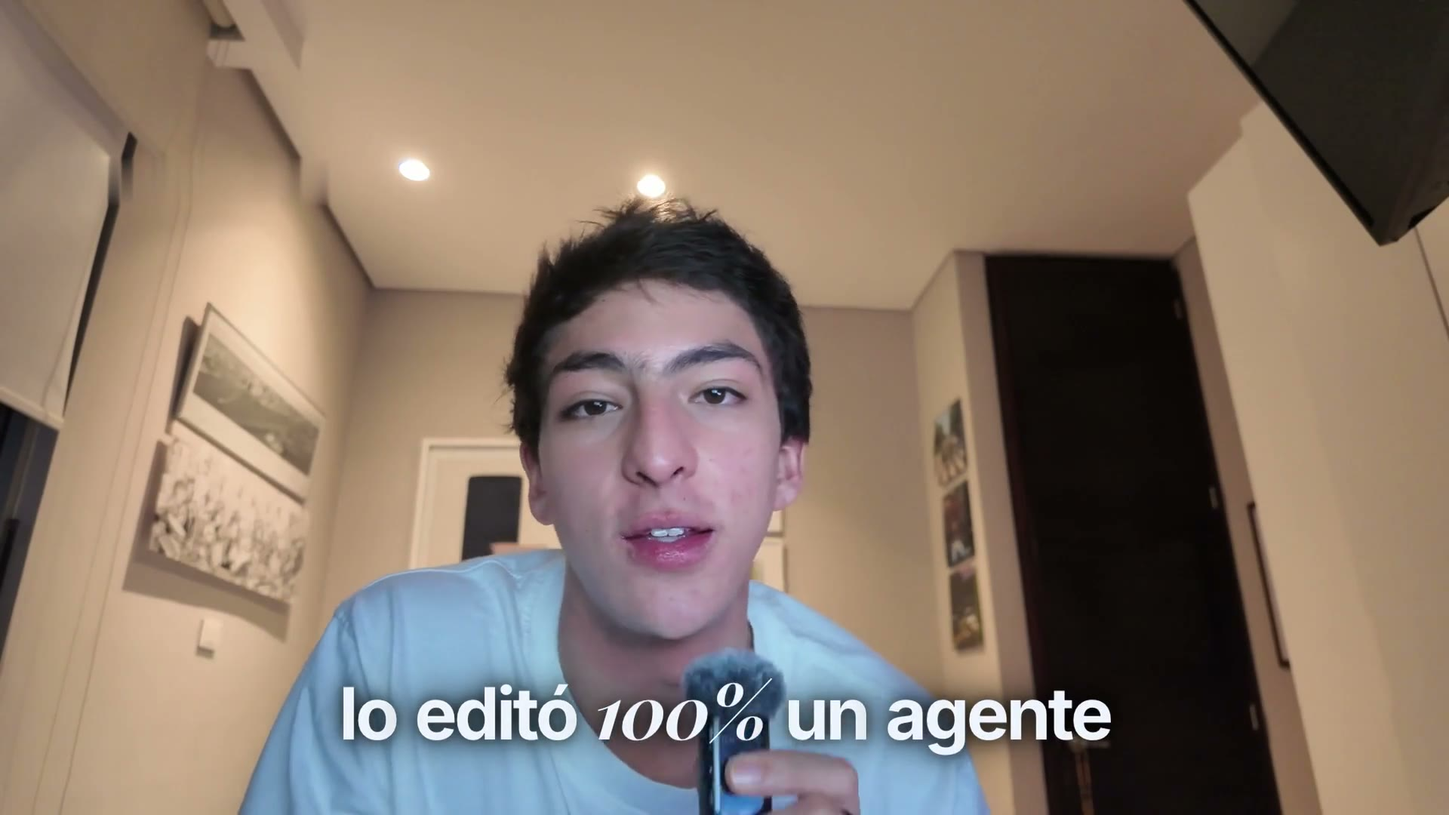
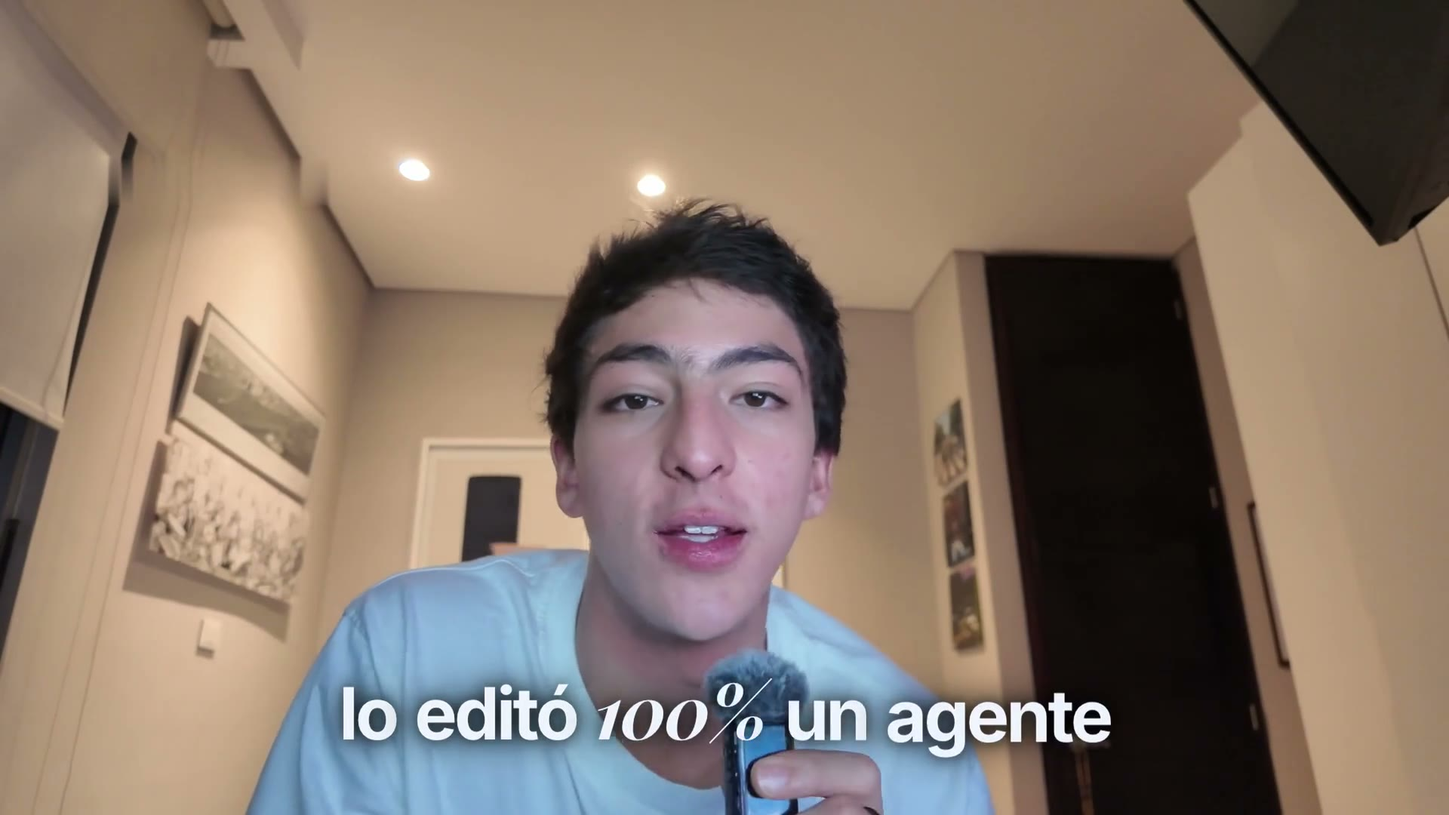
Name the tested Mac precisely and use an eyes-open VSL poster
"Probada de principio a fin en Mac con Apple Silicon, Windows y Linux"
instead of a bare "Mac", in the formats note and the computer FAQ. The VSL
poster is now the frame at 2.2 s (eyes open, looking at the camera).

Changed region(s): [[0.3438, 0.2444, 0.7812, 1.0], [0.1562, 0.7028, 0.2812, 1.0], [0.5938, 0.7944, 0.625, 0.825]]

diff --git a/index.html b/index.html
@@ -27,4 +27,4 @@ body.has-sticky .vek-chat{bottom:78px}
 @media (max-width:640px){.sticky-buy{font-size:12px;gap:10px;justify-content:space-between}.sticky-buy span{flex:1}body.has-sticky .vek-chat{bottom:74px}}
 </style></head><body class="has-sticky">
 <header class="nav wrap"><a class="brand" href="#">◧ <b>VIDEO EDITOR</b><span>ESTUDIO CON IA</span></a><a class="nav-link" href="#incluye">Qué recibes</a><a class="nav-link" href="#preguntas">Preguntas</a><a class="button small" href="#oferta">Quiero mi editor <span>↓</span></a></header>
-<main><section class="hero wrap"><p class="eyebrow"><i></i> PARA QUIENES GRABAN A CÁMARA EN ESPAÑOL</p><h1>Grabar te toma un rato.<br><em>Editar te roba la noche.</em></h1><p class="lead">Video Editor Kit es tu editor de video en español que aprende cómo editas tú. Trabaja en tu computador, en Claude Code o Codex. Le pides «edita este video»: el kit quita pausas y tomas repetidas, y subtitula sin taparte la cara. Lo entrega para Reels, TikTok, Shorts o YouTube. Tú revisas y apruebas.</p><video class="vsl" controls playsinline preload="metadata" poster="assets/vsl-poster.jpg" src="assets/vsl.mp4" style="width:100%;height:auto;border-radius:18px;background:#0E1210"></video><div class="hero-cta"><a class="button" href="#oferta">Quiero mi editor por US$97 <span>↓</span></a><p class="micro"><span>Solo 30 cupos a este precio</span><span>Pago único</span><span>Garantía de 15 días</span><span>Descarga inmediata</span></p></div></section><section class="tension wrap"><p class="eyebrow">LO QUE PASA DESPUÉS DE GRABAR</p><div class="split"><h2>Tu idea estaba lista el lunes.<br><span class="muted">El video sale el viernes. Si sale.</span></h2><div><p>Grabaste en un rato. Lo demás se llevó la noche: escuchar cada pausa, cortar las tomas que repetiste, escribir los subtítulos, moverlos para que no te tapen la cara, exportar… y descubrir que el audio quedó bajito. Otra vez.</p><p>Cuando terminas, ya no quedan ganas de grabar el siguiente. Publicas menos, publicas tarde o publicas algo que no te convence. Y cada semana así es una semana en la que tu audiencia ve los videos de otro.</p><p>Y las soluciones de siempre también te cobran. Una app de edición se renueva cada año. Un editor te cobra cada video y entrega a su ritmo, no al tuyo.</p><ul class="pains"><li>Cortar pausas y tomas repetidas, una por una.</li><li>Subtítulos que te tapan la cara o quedan debajo de los botones de Instagram.</li><li>Nombres y marcas mal escritos que corriges a mano, video tras video.</li><li>Clips del iPhone que salen con colores raros o de lado.</li><li>Pagar una app de edición cada año, publiques mucho o poco.</li></ul><a class="text-link" href="#estilo">Así lo resuelve <span>↓</span></a></div></div></section><section class="method" id="estilo"><div class="wrap"><p class="eyebrow">CÓMO APRENDE TU ESTILO</p><h2>No le explicas tu estilo.<br><em>Se lo muestras.</em></h2><div class="steps"><article><span class="num">01</span><h3>Escribe «empezar»</h3><p>Abres la carpeta del kit en Claude Code o Codex y escribes «empezar». El kit revisa tu computador e instala lo que falta. No necesitas saber programar.</p></article><article><span class="num">02</span><h3>Dale de 1 a 3 videos que te gusten</h3><p>Tuyos o con el ritmo que buscas. Los mide en tu computador: cortes por minuto, pausas, ritmo al hablar y estilo de subtítulos. Te muestra en español lo que aprendió, en un resumen que puedes leer y cambiar.</p></article><article><span class="num">03</span><h3>Pide «edita este video»</h3><p>Aplica tu perfil de estilo y te muestra el resultado antes de exportar. ¿Corriges algo? Te pregunta «¿siempre así?» y lo guarda en tu perfil para los siguientes videos.</p></article></div><p class="fine">Un perfil por cada creador o cliente. Y tu material se edita en tu computador: no tiene que subirse a un servicio de edición.</p></div></section><section class="cost wrap" id="formatos"><p class="eyebrow">QUÉ EDITA</p><h2>Del reel al video de YouTube, con el mismo editor.</h2><div class="cost-grid"><article class="us"><span>VERTICAL 9:16</span><b style="font-size:24px">Reels, TikTok y Shorts</b><p>Sin pausas ni tomas repetidas, con gráficos para formato corto y subtítulos en español que no te tapan la cara, dentro de la zona segura de Instagram. Una versión para cada plataforma, con el volumen parejo (−14 LUFS).</p></article><article class="us"><span>HORIZONTAL 16:9</span><b style="font-size:24px">Videos de YouTube</b><p>Quita pausas, tiempos muertos y tomas repetidas, nivela el audio y te entrega la versión para YouTube con el MP4 final verificado.</p></article><article class="us"><span>DE LARGO A CLIPS</span><b style="font-size:24px">Un video largo, varios clips</b><p>Convierte un video largo en varios clips verticales con subtítulos. Una sola grabación, varias publicaciones.</p></article></div><p class="fine" style="margin-top:16px">El formato se detecta solo: vertical → corto; horizontal → YouTube. Edición completa de verticales y de YouTube probada de principio a fin en Mac, Windows y Linux. No necesitas ninguna app de edición; si usas Premiere Pro, DaVinci Resolve, CapCut o Final Cut Pro, el kit incluye rutas para terminar ahí.</p></section><section class="why wrap" id="por-que"><p class="eyebrow">¿POR QUÉ NO HERRAMIENTAS GRATIS, UNA APP O UN EDITOR?</p><div class="split"><div><h2>Lo gratis te cobra en tiempo.<br>El kit llega armado y en español.</h2><p class="muted" style="margin-top:22px">Hay complementos gratis para editar con Claude Code (se llaman skills), casi todos en inglés, y el flujo lo armas tú, pieza por pieza. Las apps te cobran cada año. Un editor, cada video. Video Editor Kit llega armado, en español, aprende tu estilo y se paga una vez.</p></div><ul><li>Aprende de 1 a 3 videos que te gusten y guarda en tu perfil de estilo cada corrección que confirmas.</li><li>Transcribe en español en tu computador: sin claves de API, sin costo por minuto y sin subir tus videos a un servicio de edición.</li><li>Quita pausas, tiempos muertos y tomas repetidas: si repites una frase, se queda con la última toma.</li><li>Pone subtítulos que no tapan tu cara, dentro de la zona segura de Instagram. Y corrige los nombres que el transcriptor oye mal con una lista que tú amplías («Clot» → Claude).</li><li>Te marca cuándo miras fuera de cámara, por ejemplo al leer un guion, para que tú decidas.</li><li>Convierte los clips HDR del iPhone a colores normales, lee la rotación y entrega una versión por plataforma con el volumen parejo.</li><li>Nunca toca tu original. Exporta solo cuando apruebas y verifica el MP4 final: duración, audio y que el archivo no esté dañado.</li><li>Llega armado. Si lo armas tú con herramientas gratis, un detalle técnico puede dejar tu video sin subtítulos (nos pasó con el ffmpeg de Homebrew). Aquí ya viene resuelto.</li></ul></div></section><section class="cost wrap"><p class="eyebrow">LO QUE TE CUESTA EDITAR HOY</p><h2>Unos cobran cada año. Otros, cada video. Este, una vez.</h2><div class="cost-grid"><article><span>SUSCRIPCIÓN</span><b>$180–290<small style="font-size:13px">&nbsp;/año</small></b><p>Submagic Pro (US$276), Descript Creator (US$288) o CapCut Pro (US$180), en plan anual. Y al año siguiente, otra vez.</p></article><article><span>EDITOR HUMANO</span><b>$40–400<small style="font-size:13px">&nbsp;/mes</small></b><p>8 reels al mes en Latinoamérica: desde US$5 por reel en plataformas de trabajo independiente hasta US$50 o más si el editor tiene experiencia. Todos los meses. Y publicas cuando te entregan, no cuando quieres.</p></article><article class="us"><span>VIDEO EDITOR KIT</span><b>$97<small style="font-size:13px">&nbsp;una vez</small></b><p>Un solo pago por el kit: sin mensualidad ni cobro por video. Lo usas en tus videos y en los de tus clientes. Aparte, tu plan de Claude (desde unos US$20/mes) o de ChatGPT, que quizá ya pagas.</p></article></div><p class="fine" style="margin-top:16px">Precios públicos consultados el 25/09/2026, en USD y redondeados: planes anuales de cada app y tarifas de editores en plataformas de trabajo independiente de Latinoamérica.</p></section><section class="included wrap" id="incluye"><p class="eyebrow">LO QUE RECIBES</p><h2>Un editor completo.<br><em>Y todo para usarlo desde hoy.</em></h2><div class="deliverable"><figure class="product-visual"><img src="assets/higgsfield-kit.jpg" alt="Las piezas de Video Editor Kit" width="1800" height="1005" loading="lazy"><figcaption>Recibes archivos digitales: descarga inmediata desde tu recibo.</figcaption></figure><div class="stack"><article><span>01 · EL EDITOR</span><h3>El agente editor</h3><p>Todo el flujo de edición, ya armado. Transcribe en español, corta, subtitula y añade gráficos a los formatos cortos. Nivela el audio y exporta una versión por plataforma, con el MP4 verificado.</p></article><article><span>02 · TU ESTILO</span><h3>Perfiles de estilo y plantilla de marca</h3><p>Un perfil por creador o cliente, y una plantilla que llenas una vez con tus colores, tus fuentes y tu voz.</p></article><article><span>03 · GUÍA</span><h3>Guía visual de 10 lecciones</h3><p>Paso a paso y en español, con instrucciones para copiar. Te lleva del ZIP a tu primer video exportado.</p></article><article><span>04 · AYUDA</span><h3>Asistente de ayuda y soporte por correo</h3><p>El asistente responde con la documentación del kit. Y si algo se traba, nos escribes.</p></article><article><span>05 · EXTRAS</span><h3>165 iconos animados</h3><p>Con fondo transparente, para tus videos. Y además, instrucciones para Claude Code y Codex.</p></article><article><span>BONO FUNDADOR</span><h3>Llamada 1 a 1 de 30 minutos con Alejandro</h3><p>Solo para los primeros 30: aprende conmigo a crear agentes de IA como este. La reservas con el enlace que llega en tu correo de compra.</p></article></div></div></section><section class="fit wrap"><div><p class="eyebrow">¿ES PARA TI?</p><h2>Esto no es para todos.<br><em>Es para quien ya se cansó de editar.</em></h2></div><div><h3>Es para ti si…</h3><ul class="checks"><li>Grabas a cámara en español: creas contenido, enseñas, asesoras o vendes con video.</li><li>Hoy editas de noche, le pagas a un editor o pagas una app cada año.</li><li>Quieres que tus videos salgan con tu ritmo y tus subtítulos, sin explicarlo cada vez.</li><li>Editas para clientes y quieres un perfil de estilo para cada uno.</li></ul><h3>No es para ti si…</h3><ul class="checks no"><li>Buscas una app de arrastrar y soltar: aquí le pides la edición en español a tu IA.</li><li>No quieres pagar un plan de Claude o ChatGPT: es necesario para usar el kit.</li><li>Quieres publicar sin mirar: aquí tú revisas y apruebas cada video.</li></ul><div class="requirements"><h3>Lo que necesitas</h3><p>Un computador Mac, Windows o Linux, unos 10 GB libres y un plan de pago de Claude para usar Claude Code (desde unos US$20/mes) o de ChatGPT para Codex. Nada de programar: le hablas en español.</p></div></div></section><section class="offer-section" id="oferta"><div class="wrap offer-grid"><div><p class="eyebrow">PRECIO FUNDADOR · SOLO 30 CUPOS</p><h2>Los primeros 30 pagan US$97.<br><em>Desde el cupo 31, US$137.</em></h2><p class="offer-copy urgent">¿Por qué más barato? Porque si eres de los primeros 30, te pido algo a cambio: tu opinión honesta después de tu primera edición. Gumroad cierra este precio en la venta 30 y yo actualizo el contador cada día con las ventas reales. Si llegas después, pagas US$40 más y te quedas sin la llamada 1 a 1.</p><p class="offer-copy bono">Bono fundador: una llamada 1 a 1 de 30 minutos conmigo, Alejandro, para aprender a crear agentes de IA como este editor. La reservas con el enlace que llega en tu correo de compra. El soporte del kit va por correo; esta llamada es para que aprendas a crear los tuyos. Se acaba con el último cupo.</p></div><div class="price-card"><span class="founder">QUEDAN <b data-cupos>30</b> DE 30 CUPOS · ACTUALIZADO EL <span data-cupos-fecha>01/10</span></span><span class="eyebrow" style="display:block;margin-top:14px">VIDEO EDITOR KIT</span><div class="price">$97<span>USD · luego $137</span></div><p>Pago único · sin mensualidad del kit</p><ul class="checks"><li>Tu editor de video en español, en tu computador</li><li>Aprende tu estilo: un perfil por creador o cliente</li><li>Reels, TikTok, Shorts y YouTube</li><li>Guía visual de 10 lecciones en español</li><li>Asistente de ayuda y soporte por correo</li><li>Plantilla de marca y 165 iconos animados</li><li>Bono fundador: llamada 1 a 1 con Alejandro (solo los primeros 30)</li><li>Garantía de primera edición de 15 días</li></ul><a class="button full" href="https://gumroad.com/checkout?product=bkxlfg&amp;quantity=1">Quiero mi editor por US$97 <span>↗</span></a><div class="guarantee"><b>Si no exportas tu primer video, te devolvemos el dinero.</b> Garantía de primera edición de 15 días: si sigues la guía con un clip tuyo de 20–60 s y no logras exportar tu primer video, escríbenos; te ayudamos y, si no lo resolvemos, te devolvemos el dinero.</div><p class="fine">Pago procesado por Gumroad. Descargas el kit desde tu recibo, justo después de pagar.</p></div></div></section><section class="faq wrap" id="preguntas"><p class="eyebrow">ANTES DE COMPRAR</p><h2>Lo que te estás preguntando, respondido.</h2><details><summary>¿Tengo que saber programar?</summary><p>No. Abres la carpeta del kit en Claude Code o Codex, escribes «empezar» y desde ahí le hablas en español, como le hablarías a tu editor: «edita este video». El kit revisa tu computador e instala lo que falte, y la guía visual te lleva paso a paso con instrucciones para copiar y pegar.</p></details><details><summary>¿De verdad aprende mi estilo?</summary><p>Sí. No le describes tu estilo: le das de 1 a 3 videos que te gusten y mide sus cortes por minuto, sus pausas, el ritmo al hablar y los subtítulos. Te lo resume en español para que lo leas y lo ajustes. Y cada vez que corriges algo y confirmas «siempre así», lo recuerda.</p></details><details><summary>¿Me sirve con mi computador?</summary><p>La edición completa de videos verticales y de YouTube está probada de principio a fin en Mac, Windows y Linux. Necesitas unos 10 GB libres. Al escribir «empezar», el kit revisa tu equipo e instala lo que falte. ¿Grabas con iPhone? El kit convierte el HDR a colores normales y lee la rotación. Y si no logras exportar tu primer video, te cubre la garantía de primera edición de 15 días.</p></details><details><summary>¿Lo uso con Claude o con ChatGPT?</summary><p>Con Claude, lo usas en Claude Code (plan de pago de Claude, desde unos US$20/mes). Con ChatGPT, en Codex (plan de pago de ChatGPT). No es el chat del navegador: abres la carpeta del kit en tu computador y le pides la edición en español. Codex: adaptación incluida; la prueba completa está en curso.</p></details><details><summary>¿Qué tengo que pagar aparte?</summary><p>Solo tu plan de Claude (desde unos US$20/mes) o de ChatGPT, si no lo tienes ya. La transcripción corre en tu computador con WhisperX: sin claves de API ni cobro por minuto. No necesitas ninguna app de edición; si ya usas Premiere Pro, DaVinci Resolve, CapCut o Final Cut Pro, el kit incluye rutas para terminar ahí.</p></details><details><summary>¿Vale lo que cuesta?</summary><p>Haz la cuenta. Un año de Submagic Pro, Descript Creator o CapCut Pro cuesta entre US$180 y US$290. Un editor en Latinoamérica cobra de US$5 a US$50 o más por reel, todos los meses. El kit se paga una vez y lo usas en todos tus videos, sin cobro por video ni por minuto; solo necesitas tu plan de Claude o ChatGPT, que quizá ya pagas. Y cada corrección que confirmas queda guardada en tu perfil.</p></details><details><summary>¿Por qué no herramientas gratis, una app o un editor?</summary><p>Los complementos gratis (skills) existen, casi todos en inglés, y el flujo lo armas tú: instalar, conectar, probar y arreglar lo que falla. Una app se paga cada año y un editor cobra cada video. El kit llega armado, en español, trabaja en tu computador y aprende cómo editas tú, con un solo pago.</p></details><details><summary>¿Cuánto tarda en estar listo?</summary><p>Lo descargas apenas pagas. Instalarlo son 3 pasos: descargas el ZIP desde tu recibo, lo descomprimes y abres la carpeta video-editor en Claude Code o Codex para escribir «empezar». El kit revisa tu computador e instala lo que falte. La primera edición descarga una sola vez unos 4,3 GB de modelos; las siguientes reutilizan lo descargado.</p></details><details><summary>¿Puedo usarlo con videos de clientes?</summary><p>Sí. Puedes editar material tuyo o de tus clientes y guardar un perfil de estilo para cada uno. Así cada cliente conserva su ritmo y sus subtítulos sin que tengas que explicarlo de nuevo en cada video.</p></details><details><summary>¿Y si no me funciona?</summary><p>Te cubre la garantía de primera edición de 15 días: si sigues la guía con un clip tuyo de 20–60 s y no logras exportar tu primer video, escríbenos; te ayudamos y, si no lo resolvemos, te devolvemos el dinero. Además tienes el asistente de ayuda y soporte por correo.</p></details></section><section class="last wrap"><img class="closing-art" src="assets/higgsfield-detail.jpg" alt="" width="1800" height="1005" loading="lazy"><p class="eyebrow">PIÉNSALO ASÍ</p><h2>Tu próximo video puede salir<br><em>sin robarte otra noche.</em></h2><p class="lead">Imagina la próxima semana: grabas, escribes «edita este video», revisas y publicas. Sin abrir una app de edición. Sin esperar a nadie. O imagina que todo sigue igual: otra noche cortando pausas, otra renovación de tu app de edición, otro video que sale tarde. Solo hay 30 cupos a US$97. Cuando se acaben, el kit sube a US$137 y la llamada 1 a 1 se va con ellos.</p><a class="button" href="#oferta">Quiero mi editor por US$97 <span>↓</span></a><p class="fine">Pago único · Garantía de 15 días · Descarga inmediata desde Gumroad</p></section></main><footer class="wrap"><a class="brand" href="#">◧ <b>VIDEO EDITOR</b></a><p>Vendido por Alejandro Ospina Duque · Colombia · Contacto: alejandroospinaduque76@gmail.com. Kit independiente, sin afiliación con OpenAI, Anthropic ni los fabricantes de las aplicaciones de edición. Esta página cuenta visitas con GoatCounter, sin cookies.</p><a href="readiness.html">Recurso gratuito ↗</a></footer><script>(function(){var c='';try{var q=new URLSearchParams(location.search);c=q.get('utm_campaign')||q.get('utm_source')||'';if(c){sessionStorage.setItem('ve_canal',c)}else{c=sessionStorage.getItem('ve_canal')||''}}catch(e){}c=(c||'directo').toLowerCase().replace(/_/g,'-').replace(/[^a-z0-9-]/g,'').slice(0,30)||'directo';document.querySelectorAll('[data-goatcounter-click]').forEach(function(a){a.setAttribute('data-goatcounter-click',a.getAttribute('data-goatcounter-click')+'/'+c);})})();</script><link rel="stylesheet" href="assets/asistente.css"><script>window.VEK_LINK_COMPRA="https://gumroad.com/checkout?product=bkxlfg&quantity=1";window.VEK_CORREO="alejandroospinaduque76@gmail.com";window.VEK_CHAT_ENDPOINT=null;</script><script src="assets/asistente.js" defer></script><div class="sticky-buy"><span>Precio fundador US$97 · Solo 30 cupos · Luego US$137 · Garantía de 15 días</span><a class="button small" href="#oferta">Quiero mi cupo</a></div></body></html>
+<main><section class="hero wrap"><p class="eyebrow"><i></i> PARA QUIENES GRABAN A CÁMARA EN ESPAÑOL</p><h1>Grabar te toma un rato.<br><em>Editar te roba la noche.</em></h1><p class="lead">Video Editor Kit es tu editor de video en español que aprende cómo editas tú. Trabaja en tu computador, en Claude Code o Codex. Le pides «edita este video»: el kit quita pausas y tomas repetidas, y subtitula sin taparte la cara. Lo entrega para Reels, TikTok, Shorts o YouTube. Tú revisas y apruebas.</p><video class="vsl" controls playsinline preload="metadata" poster="assets/vsl-poster.jpg" src="assets/vsl.mp4" style="width:100%;height:auto;border-radius:18px;background:#0E1210"></video><div class="hero-cta"><a class="button" href="#oferta">Quiero mi editor por US$97 <span>↓</span></a><p class="micro"><span>Solo 30 cupos a este precio</span><span>Pago único</span><span>Garantía de 15 días</span><span>Descarga inmediata</span></p></div></section><section class="tension wrap"><p class="eyebrow">LO QUE PASA DESPUÉS DE GRABAR</p><div class="split"><h2>Tu idea estaba lista el lunes.<br><span class="muted">El video sale el viernes. Si sale.</span></h2><div><p>Grabaste en un rato. Lo demás se llevó la noche: escuchar cada pausa, cortar las tomas que repetiste, escribir los subtítulos, moverlos para que no te tapen la cara, exportar… y descubrir que el audio quedó bajito. Otra vez.</p><p>Cuando terminas, ya no quedan ganas de grabar el siguiente. Publicas menos, publicas tarde o publicas algo que no te convence. Y cada semana así es una semana en la que tu audiencia ve los videos de otro.</p><p>Y las soluciones de siempre también te cobran. Una app de edición se renueva cada año. Un editor te cobra cada video y entrega a su ritmo, no al tuyo.</p><ul class="pains"><li>Cortar pausas y tomas repetidas, una por una.</li><li>Subtítulos que te tapan la cara o quedan debajo de los botones de Instagram.</li><li>Nombres y marcas mal escritos que corriges a mano, video tras video.</li><li>Clips del iPhone que salen con colores raros o de lado.</li><li>Pagar una app de edición cada año, publiques mucho o poco.</li></ul><a class="text-link" href="#estilo">Así lo resuelve <span>↓</span></a></div></div></section><section class="method" id="estilo"><div class="wrap"><p class="eyebrow">CÓMO APRENDE TU ESTILO</p><h2>No le explicas tu estilo.<br><em>Se lo muestras.</em></h2><div class="steps"><article><span class="num">01</span><h3>Escribe «empezar»</h3><p>Abres la carpeta del kit en Claude Code o Codex y escribes «empezar». El kit revisa tu computador e instala lo que falta. No necesitas saber programar.</p></article><article><span class="num">02</span><h3>Dale de 1 a 3 videos que te gusten</h3><p>Tuyos o con el ritmo que buscas. Los mide en tu computador: cortes por minuto, pausas, ritmo al hablar y estilo de subtítulos. Te muestra en español lo que aprendió, en un resumen que puedes leer y cambiar.</p></article><article><span class="num">03</span><h3>Pide «edita este video»</h3><p>Aplica tu perfil de estilo y te muestra el resultado antes de exportar. ¿Corriges algo? Te pregunta «¿siempre así?» y lo guarda en tu perfil para los siguientes videos.</p></article></div><p class="fine">Un perfil por cada creador o cliente. Y tu material se edita en tu computador: no tiene que subirse a un servicio de edición.</p></div></section><section class="cost wrap" id="formatos"><p class="eyebrow">QUÉ EDITA</p><h2>Del reel al video de YouTube, con el mismo editor.</h2><div class="cost-grid"><article class="us"><span>VERTICAL 9:16</span><b style="font-size:24px">Reels, TikTok y Shorts</b><p>Sin pausas ni tomas repetidas, con gráficos para formato corto y subtítulos en español que no te tapan la cara, dentro de la zona segura de Instagram. Una versión para cada plataforma, con el volumen parejo (−14 LUFS).</p></article><article class="us"><span>HORIZONTAL 16:9</span><b style="font-size:24px">Videos de YouTube</b><p>Quita pausas, tiempos muertos y tomas repetidas, nivela el audio y te entrega la versión para YouTube con el MP4 final verificado.</p></article><article class="us"><span>DE LARGO A CLIPS</span><b style="font-size:24px">Un video largo, varios clips</b><p>Convierte un video largo en varios clips verticales con subtítulos. Una sola grabación, varias publicaciones.</p></article></div><p class="fine" style="margin-top:16px">El formato se detecta solo: vertical → corto; horizontal → YouTube. Edición completa de verticales y de YouTube probada de principio a fin en Mac con Apple Silicon, Windows y Linux. No necesitas ninguna app de edición; si usas Premiere Pro, DaVinci Resolve, CapCut o Final Cut Pro, el kit incluye rutas para terminar ahí.</p></section><section class="why wrap" id="por-que"><p class="eyebrow">¿POR QUÉ NO HERRAMIENTAS GRATIS, UNA APP O UN EDITOR?</p><div class="split"><div><h2>Lo gratis te cobra en tiempo.<br>El kit llega armado y en español.</h2><p class="muted" style="margin-top:22px">Hay complementos gratis para editar con Claude Code (se llaman skills), casi todos en inglés, y el flujo lo armas tú, pieza por pieza. Las apps te cobran cada año. Un editor, cada video. Video Editor Kit llega armado, en español, aprende tu estilo y se paga una vez.</p></div><ul><li>Aprende de 1 a 3 videos que te gusten y guarda en tu perfil de estilo cada corrección que confirmas.</li><li>Transcribe en español en tu computador: sin claves de API, sin costo por minuto y sin subir tus videos a un servicio de edición.</li><li>Quita pausas, tiempos muertos y tomas repetidas: si repites una frase, se queda con la última toma.</li><li>Pone subtítulos que no tapan tu cara, dentro de la zona segura de Instagram. Y corrige los nombres que el transcriptor oye mal con una lista que tú amplías («Clot» → Claude).</li><li>Te marca cuándo miras fuera de cámara, por ejemplo al leer un guion, para que tú decidas.</li><li>Convierte los clips HDR del iPhone a colores normales, lee la rotación y entrega una versión por plataforma con el volumen parejo.</li><li>Nunca toca tu original. Exporta solo cuando apruebas y verifica el MP4 final: duración, audio y que el archivo no esté dañado.</li><li>Llega armado. Si lo armas tú con herramientas gratis, un detalle técnico puede dejar tu video sin subtítulos (nos pasó con el ffmpeg de Homebrew). Aquí ya viene resuelto.</li></ul></div></section><section class="cost wrap"><p class="eyebrow">LO QUE TE CUESTA EDITAR HOY</p><h2>Unos cobran cada año. Otros, cada video. Este, una vez.</h2><div class="cost-grid"><article><span>SUSCRIPCIÓN</span><b>$180–290<small style="font-size:13px">&nbsp;/año</small></b><p>Submagic Pro (US$276), Descript Creator (US$288) o CapCut Pro (US$180), en plan anual. Y al año siguiente, otra vez.</p></article><article><span>EDITOR HUMANO</span><b>$40–400<small style="font-size:13px">&nbsp;/mes</small></b><p>8 reels al mes en Latinoamérica: desde US$5 por reel en plataformas de trabajo independiente hasta US$50 o más si el editor tiene experiencia. Todos los meses. Y publicas cuando te entregan, no cuando quieres.</p></article><article class="us"><span>VIDEO EDITOR KIT</span><b>$97<small style="font-size:13px">&nbsp;una vez</small></b><p>Un solo pago por el kit: sin mensualidad ni cobro por video. Lo usas en tus videos y en los de tus clientes. Aparte, tu plan de Claude (desde unos US$20/mes) o de ChatGPT, que quizá ya pagas.</p></article></div><p class="fine" style="margin-top:16px">Precios públicos consultados el 25/09/2026, en USD y redondeados: planes anuales de cada app y tarifas de editores en plataformas de trabajo independiente de Latinoamérica.</p></section><section class="included wrap" id="incluye"><p class="eyebrow">LO QUE RECIBES</p><h2>Un editor completo.<br><em>Y todo para usarlo desde hoy.</em></h2><div class="deliverable"><figure class="product-visual"><img src="assets/higgsfield-kit.jpg" alt="Las piezas de Video Editor Kit" width="1800" height="1005" loading="lazy"><figcaption>Recibes archivos digitales: descarga inmediata desde tu recibo.</figcaption></figure><div class="stack"><article><span>01 · EL EDITOR</span><h3>El agente editor</h3><p>Todo el flujo de edición, ya armado. Transcribe en español, corta, subtitula y añade gráficos a los formatos cortos. Nivela el audio y exporta una versión por plataforma, con el MP4 verificado.</p></article><article><span>02 · TU ESTILO</span><h3>Perfiles de estilo y plantilla de marca</h3><p>Un perfil por creador o cliente, y una plantilla que llenas una vez con tus colores, tus fuentes y tu voz.</p></article><article><span>03 · GUÍA</span><h3>Guía visual de 10 lecciones</h3><p>Paso a paso y en español, con instrucciones para copiar. Te lleva del ZIP a tu primer video exportado.</p></article><article><span>04 · AYUDA</span><h3>Asistente de ayuda y soporte por correo</h3><p>El asistente responde con la documentación del kit. Y si algo se traba, nos escribes.</p></article><article><span>05 · EXTRAS</span><h3>165 iconos animados</h3><p>Con fondo transparente, para tus videos. Y además, instrucciones para Claude Code y Codex.</p></article><article><span>BONO FUNDADOR</span><h3>Llamada 1 a 1 de 30 minutos con Alejandro</h3><p>Solo para los primeros 30: aprende conmigo a crear agentes de IA como este. La reservas con el enlace que llega en tu correo de compra.</p></article></div></div></section><section class="fit wrap"><div><p class="eyebrow">¿ES PARA TI?</p><h2>Esto no es para todos.<br><em>Es para quien ya se cansó de editar.</em></h2></div><div><h3>Es para ti si…</h3><ul class="checks"><li>Grabas a cámara en español: creas contenido, enseñas, asesoras o vendes con video.</li><li>Hoy editas de noche, le pagas a un editor o pagas una app cada año.</li><li>Quieres que tus videos salgan con tu ritmo y tus subtítulos, sin explicarlo cada vez.</li><li>Editas para clientes y quieres un perfil de estilo para cada uno.</li></ul><h3>No es para ti si…</h3><ul class="checks no"><li>Buscas una app de arrastrar y soltar: aquí le pides la edición en español a tu IA.</li><li>No quieres pagar un plan de Claude o ChatGPT: es necesario para usar el kit.</li><li>Quieres publicar sin mirar: aquí tú revisas y apruebas cada video.</li></ul><div class="requirements"><h3>Lo que necesitas</h3><p>Un computador Mac, Windows o Linux, unos 10 GB libres y un plan de pago de Claude para usar Claude Code (desde unos US$20/mes) o de ChatGPT para Codex. Nada de programar: le hablas en español.</p></div></div></section><section class="offer-section" id="oferta"><div class="wrap offer-grid"><div><p class="eyebrow">PRECIO FUNDADOR · SOLO 30 CUPOS</p><h2>Los primeros 30 pagan US$97.<br><em>Desde el cupo 31, US$137.</em></h2><p class="offer-copy urgent">¿Por qué más barato? Porque si eres de los primeros 30, te pido algo a cambio: tu opinión honesta después de tu primera edición. Gumroad cierra este precio en la venta 30 y yo actualizo el contador cada día con las ventas reales. Si llegas después, pagas US$40 más y te quedas sin la llamada 1 a 1.</p><p class="offer-copy bono">Bono fundador: una llamada 1 a 1 de 30 minutos conmigo, Alejandro, para aprender a crear agentes de IA como este editor. La reservas con el enlace que llega en tu correo de compra. El soporte del kit va por correo; esta llamada es para que aprendas a crear los tuyos. Se acaba con el último cupo.</p></div><div class="price-card"><span class="founder">QUEDAN <b data-cupos>30</b> DE 30 CUPOS · ACTUALIZADO EL <span data-cupos-fecha>01/10</span></span><span class="eyebrow" style="display:block;margin-top:14px">VIDEO EDITOR KIT</span><div class="price">$97<span>USD · luego $137</span></div><p>Pago único · sin mensualidad del kit</p><ul class="checks"><li>Tu editor de video en español, en tu computador</li><li>Aprende tu estilo: un perfil por creador o cliente</li><li>Reels, TikTok, Shorts y YouTube</li><li>Guía visual de 10 lecciones en español</li><li>Asistente de ayuda y soporte por correo</li><li>Plantilla de marca y 165 iconos animados</li><li>Bono fundador: llamada 1 a 1 con Alejandro (solo los primeros 30)</li><li>Garantía de primera edición de 15 días</li></ul><a class="button full" href="https://gumroad.com/checkout?product=bkxlfg&amp;quantity=1">Quiero mi editor por US$97 <span>↗</span></a><div class="guarantee"><b>Si no exportas tu primer video, te devolvemos el dinero.</b> Garantía de primera edición de 15 días: si sigues la guía con un clip tuyo de 20–60 s y no logras exportar tu primer video, escríbenos; te ayudamos y, si no lo resolvemos, te devolvemos el dinero.</div><p class="fine">Pago procesado por Gumroad. Descargas el kit desde tu recibo, justo después de pagar.</p></div></div></section><section class="faq wrap" id="preguntas"><p class="eyebrow">ANTES DE COMPRAR</p><h2>Lo que te estás preguntando, respondido.</h2><details><summary>¿Tengo que saber programar?</summary><p>No. Abres la carpeta del kit en Claude Code o Codex, escribes «empezar» y desde ahí le hablas en español, como le hablarías a tu editor: «edita este video». El kit revisa tu computador e instala lo que falte, y la guía visual te lleva paso a paso con instrucciones para copiar y pegar.</p></details><details><summary>¿De verdad aprende mi estilo?</summary><p>Sí. No le describes tu estilo: le das de 1 a 3 videos que te gusten y mide sus cortes por minuto, sus pausas, el ritmo al hablar y los subtítulos. Te lo resume en español para que lo leas y lo ajustes. Y cada vez que corriges algo y confirmas «siempre así», lo recuerda.</p></details><details><summary>¿Me sirve con mi computador?</summary><p>La edición completa de videos verticales y de YouTube está probada de principio a fin en Mac con Apple Silicon, Windows y Linux. Necesitas unos 10 GB libres. Al escribir «empezar», el kit revisa tu equipo e instala lo que falte. ¿Grabas con iPhone? El kit convierte el HDR a colores normales y lee la rotación. Y si no logras exportar tu primer video, te cubre la garantía de primera edición de 15 días.</p></details><details><summary>¿Lo uso con Claude o con ChatGPT?</summary><p>Con Claude, lo usas en Claude Code (plan de pago de Claude, desde unos US$20/mes). Con ChatGPT, en Codex (plan de pago de ChatGPT). No es el chat del navegador: abres la carpeta del kit en tu computador y le pides la edición en español. Codex: adaptación incluida; la prueba completa está en curso.</p></details><details><summary>¿Qué tengo que pagar aparte?</summary><p>Solo tu plan de Claude (desde unos US$20/mes) o de ChatGPT, si no lo tienes ya. La transcripción corre en tu computador con WhisperX: sin claves de API ni cobro por minuto. No necesitas ninguna app de edición; si ya usas Premiere Pro, DaVinci Resolve, CapCut o Final Cut Pro, el kit incluye rutas para terminar ahí.</p></details><details><summary>¿Vale lo que cuesta?</summary><p>Haz la cuenta. Un año de Submagic Pro, Descript Creator o CapCut Pro cuesta entre US$180 y US$290. Un editor en Latinoamérica cobra de US$5 a US$50 o más por reel, todos los meses. El kit se paga una vez y lo usas en todos tus videos, sin cobro por video ni por minuto; solo necesitas tu plan de Claude o ChatGPT, que quizá ya pagas. Y cada corrección que confirmas queda guardada en tu perfil.</p></details><details><summary>¿Por qué no herramientas gratis, una app o un editor?</summary><p>Los complementos gratis (skills) existen, casi todos en inglés, y el flujo lo armas tú: instalar, conectar, probar y arreglar lo que falla. Una app se paga cada año y un editor cobra cada video. El kit llega armado, en español, trabaja en tu computador y aprende cómo editas tú, con un solo pago.</p></details><details><summary>¿Cuánto tarda en estar listo?</summary><p>Lo descargas apenas pagas. Instalarlo son 3 pasos: descargas el ZIP desde tu recibo, lo descomprimes y abres la carpeta video-editor en Claude Code o Codex para escribir «empezar». El kit revisa tu computador e instala lo que falte. La primera edición descarga una sola vez unos 4,3 GB de modelos; las siguientes reutilizan lo descargado.</p></details><details><summary>¿Puedo usarlo con videos de clientes?</summary><p>Sí. Puedes editar material tuyo o de tus clientes y guardar un perfil de estilo para cada uno. Así cada cliente conserva su ritmo y sus subtítulos sin que tengas que explicarlo de nuevo en cada video.</p></details><details><summary>¿Y si no me funciona?</summary><p>Te cubre la garantía de primera edición de 15 días: si sigues la guía con un clip tuyo de 20–60 s y no logras exportar tu primer video, escríbenos; te ayudamos y, si no lo resolvemos, te devolvemos el dinero. Además tienes el asistente de ayuda y soporte por correo.</p></details></section><section class="last wrap"><img class="closing-art" src="assets/higgsfield-detail.jpg" alt="" width="1800" height="1005" loading="lazy"><p class="eyebrow">PIÉNSALO ASÍ</p><h2>Tu próximo video puede salir<br><em>sin robarte otra noche.</em></h2><p class="lead">Imagina la próxima semana: grabas, escribes «edita este video», revisas y publicas. Sin abrir una app de edición. Sin esperar a nadie. O imagina que todo sigue igual: otra noche cortando pausas, otra renovación de tu app de edición, otro video que sale tarde. Solo hay 30 cupos a US$97. Cuando se acaben, el kit sube a US$137 y la llamada 1 a 1 se va con ellos.</p><a class="button" href="#oferta">Quiero mi editor por US$97 <span>↓</span></a><p class="fine">Pago único · Garantía de 15 días · Descarga inmediata desde Gumroad</p></section></main><footer class="wrap"><a class="brand" href="#">◧ <b>VIDEO EDITOR</b></a><p>Vendido por Alejandro Ospina Duque · Colombia · Contacto: alejandroospinaduque76@gmail.com. Kit independiente, sin afiliación con OpenAI, Anthropic ni los fabricantes de las aplicaciones de edición. Esta página cuenta visitas con GoatCounter, sin cookies.</p><a href="readiness.html">Recurso gratuito ↗</a></footer><script>(function(){var c='';try{var q=new URLSearchParams(location.search);c=q.get('utm_campaign')||q.get('utm_source')||'';if(c){sessionStorage.setItem('ve_canal',c)}else{c=sessionStorage.getItem('ve_canal')||''}}catch(e){}c=(c||'directo').toLowerCase().replace(/_/g,'-').replace(/[^a-z0-9-]/g,'').slice(0,30)||'directo';document.querySelectorAll('[data-goatcounter-click]').forEach(function(a){a.setAttribute('data-goatcounter-click',a.getAttribute('data-goatcounter-click')+'/'+c);})})();</script><link rel="stylesheet" href="assets/asistente.css"><script>window.VEK_LINK_COMPRA="https://gumroad.com/checkout?product=bkxlfg&quantity=1";window.VEK_CORREO="alejandroospinaduque76@gmail.com";window.VEK_CHAT_ENDPOINT=null;</script><script src="assets/asistente.js" defer></script><div class="sticky-buy"><span>Precio fundador US$97 · Solo 30 cupos · Luego US$137 · Garantía de 15 días</span><a class="button small" href="#oferta">Quiero mi cupo</a></div></body></html>
